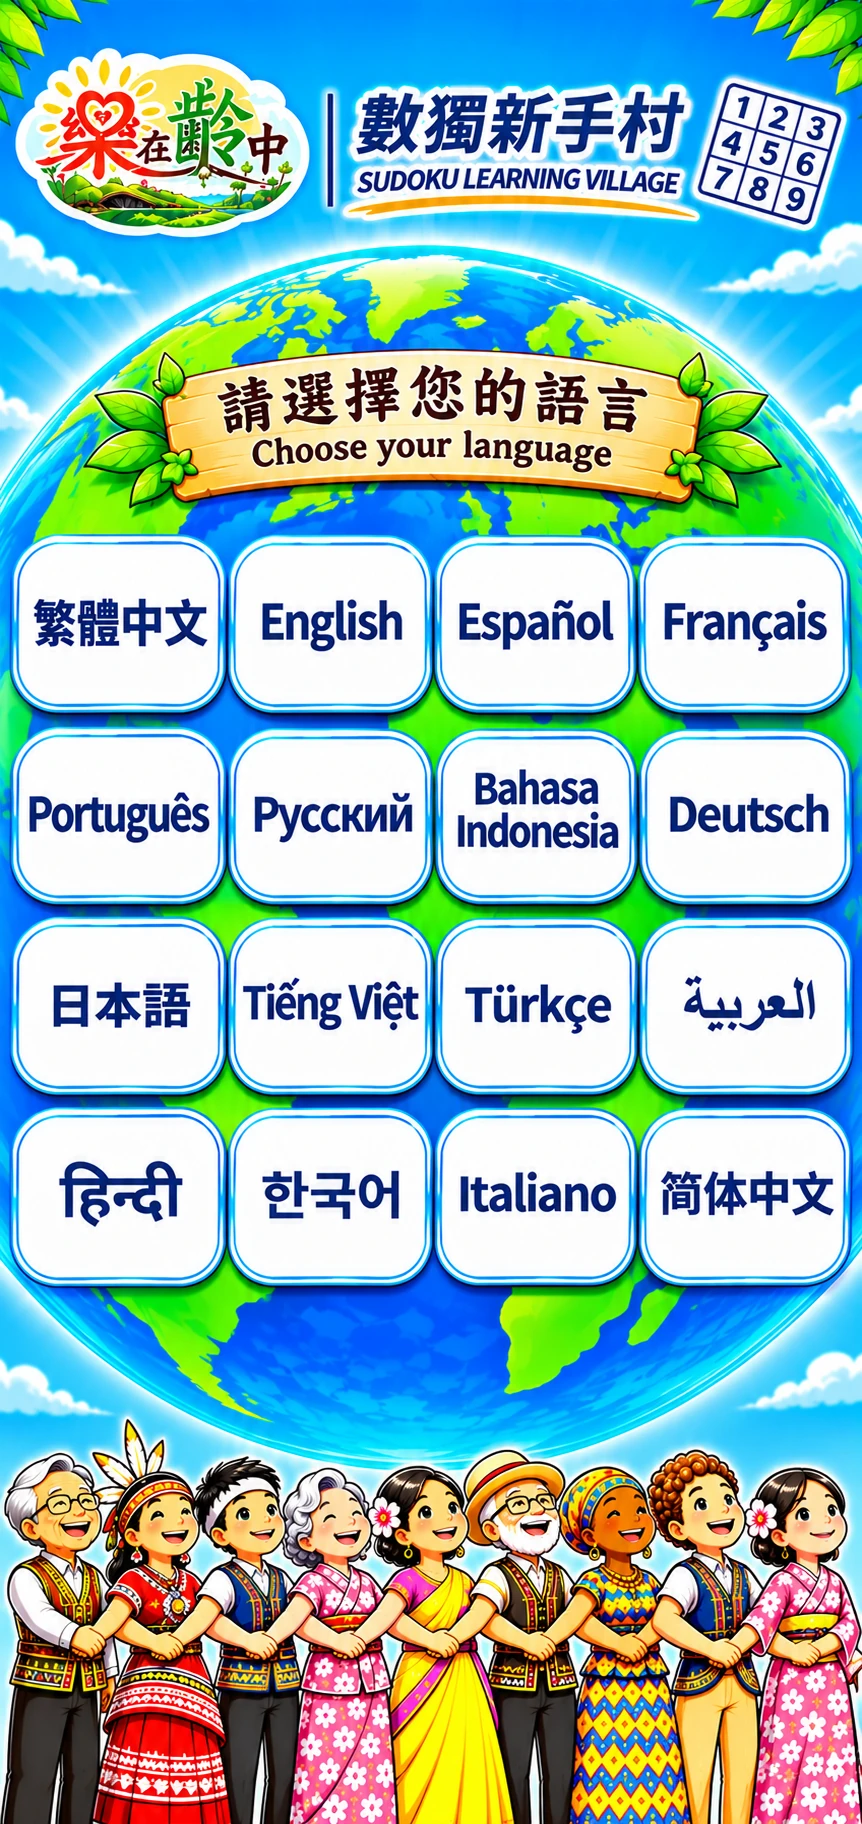
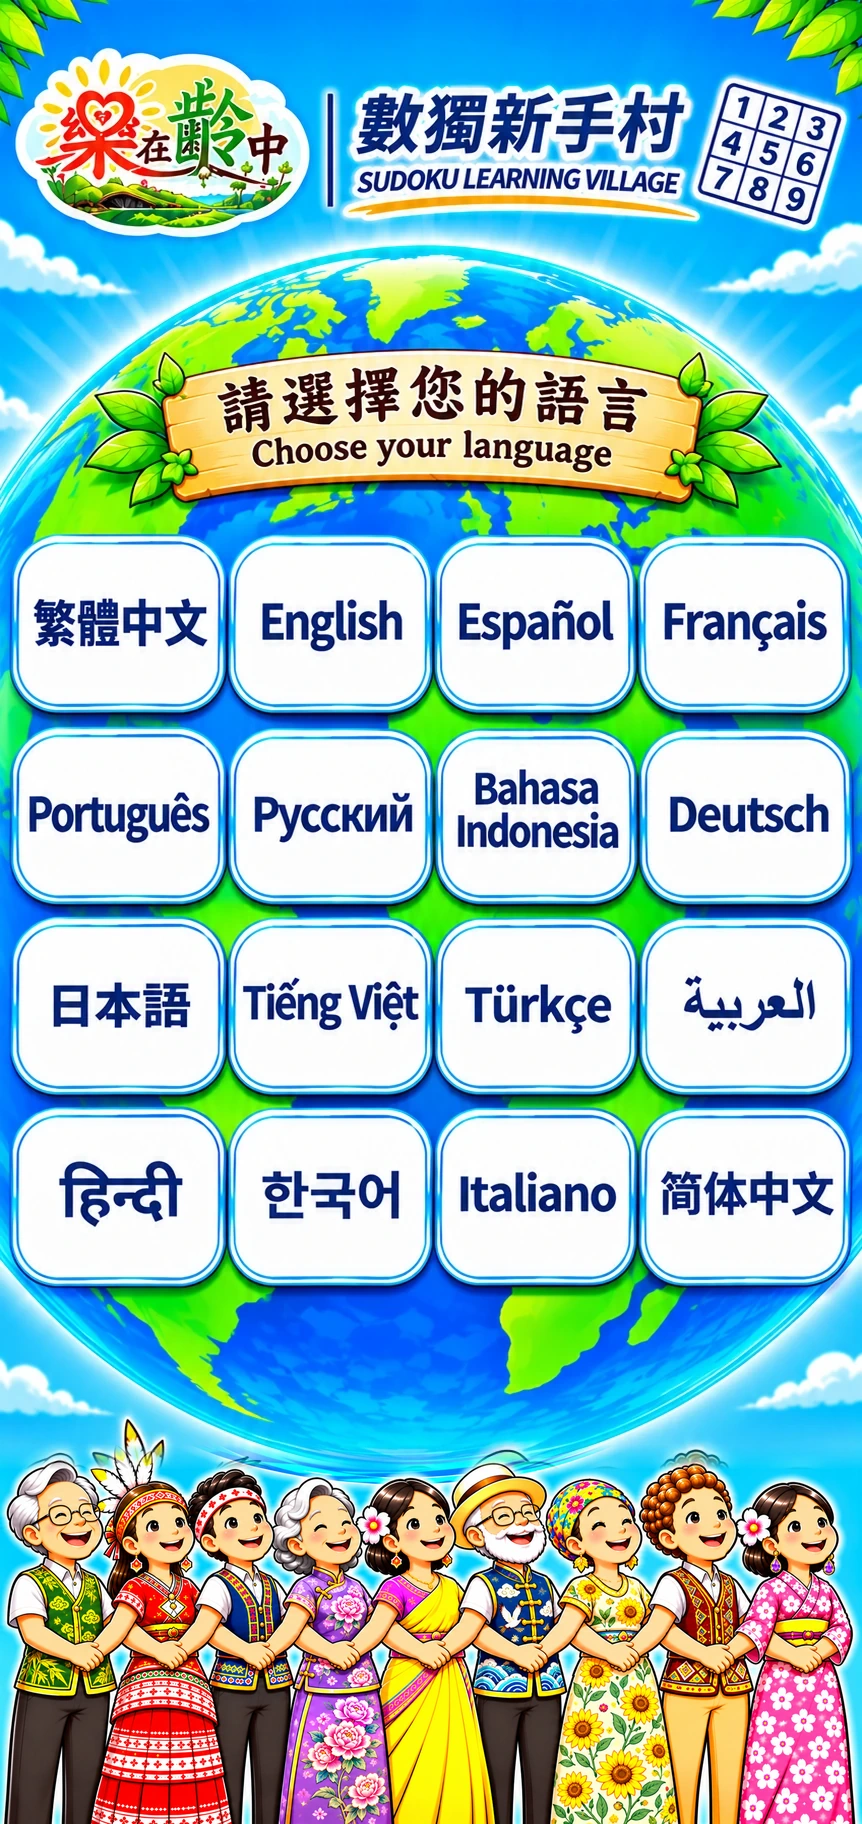
Add files via upload

Changed region(s): [[0.0, 0.7812, 1.0, 1.0], [0.3016, 0.1562, 0.3619, 0.1875]]

diff --git a/README.md b/README.md
@@ -75,3 +75,11 @@ Important: some of the less common fixed gameplay messages use a general Indones
 - 點選任一語系後才進入 `village.html`。
 - 明確指定語系的網址（例如 `?lang=hi`、`?lang=es`）仍保留直達對應語系的行為。
 - 已用 Node 模擬測試：保存語系後重開仍停留入口、上次語系標示、點擊進入遊戲、語言深連結。
+
+
+## V116.3 人物插畫定稿測試版
+- 以 V116.2 為基準，只替換語言入口海報底部的人物插畫區。
+- 採用使用者最後確認的九人插畫版本；使用乾淨原圖素材，未包含圖片預覽介面的「編輯／分享」浮層。
+- 保留原本完整地球、16 個語系按鈕、標題、頂部品牌及按鈕點擊位置。
+- 入口記住上次語言、重新開啟仍顯示語言入口的行為不變。
+- 未修改題庫、答案、遊戲邏輯、語系資料及入口 JavaScript。
